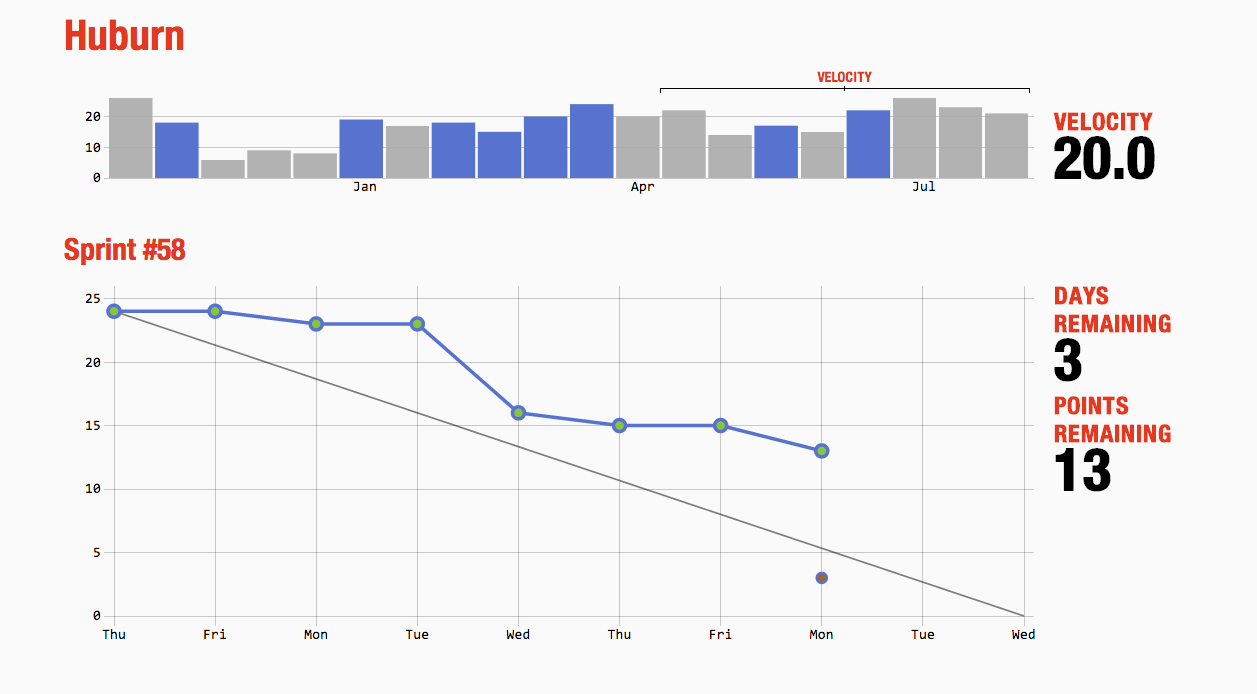
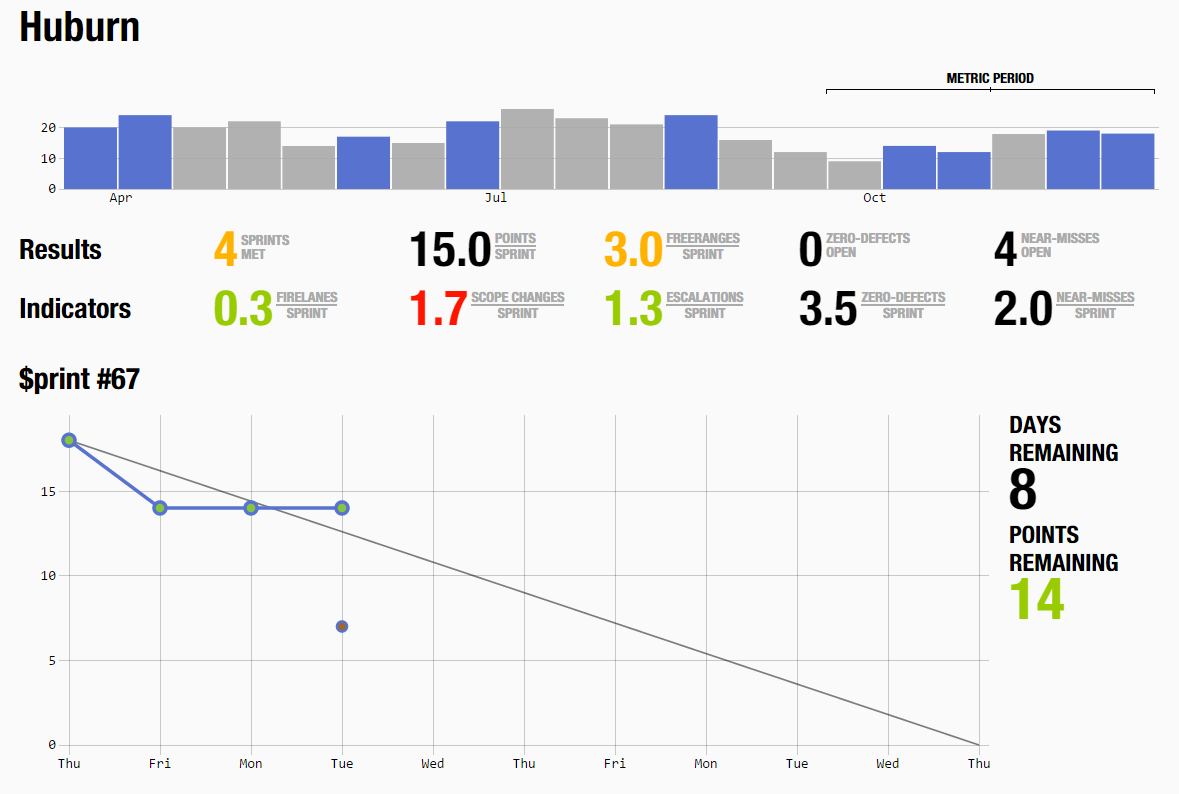
[GH32] Near-miss metrics * Add near-miss metrics that parallel the zero-defect metrics * Update the README to contain instructions for how to compile LESS * Update the screenshot for the README

diff --git a/lib/static/static/js/velocityMetrics.js b/lib/static/static/js/velocityMetrics.js
@@ -18,7 +18,7 @@
             firelanes: { value: 0, class: '' },
             escalations: { value: 0, class: '' },
             zeroDefects: { value: 0, class: '' },
-            zeroDefectBacklog: { value: 0, class: '' }
+            nearMisses: { value: 0, class: '' }
           };
 
           if (!milestones.length)
@@ -45,18 +45,23 @@
 
           metrics.zeroDefects.value = velocityMilestones.map(zeroDefects).reduce(sum) / milestonesInVelocity;
 
+          metrics.nearMisses.value = velocityMilestones.map(nearMisses).reduce(sum) / milestonesInVelocity;
+
           return metrics;
         }
 
         function getCurrentSprintMetrics(currentMilestone) {
           var currentMetrics = {
-            zeroDefectBacklog: { value: 0, class: '' }
+            zeroDefectBacklog: { value: 0, class: '' },
+            nearMissBacklog: { value: 0, class: '' }
           };
 
           if (!currentMilestone)
             return currentMetrics;
 
           currentMetrics.zeroDefectBacklog.value = currentMilestone.metadata.zeroDefectBacklog;
+
+          currentMetrics.nearMissBacklog.value = currentMilestone.metadata.nearMissBacklog;
 
           return currentMetrics;
         }
@@ -71,6 +76,8 @@
         function scopeChanges(m) { return m.metadata.scopeChanges; };
         function zeroDefects(m) { return m.metadata.zeroDefects; };
         function zeroDefectBacklog(m) { return m.metadata.zeroDefectBacklog; };
+        function nearMisses(m) { return m.metadata.nearMisses; };
+        function nearMissBacklog(m) { return m.metadata.nearMissBacklog; };
 
         function metClass(value) {
           if (value == 6) return 'super-green';

diff --git a/lib/static/static/partials/velocityMetrics.html b/lib/static/static/partials/velocityMetrics.html
@@ -22,7 +22,11 @@
   </div>
   <div class="col-sm-2 zeroDefectBacklog">
     <p class="value">{{ openIterationData.zeroDefectBacklog.value | number:0 }}</p>
-    <p class="units">ZERO DEFECTS<br />OPEN</p>
+    <p class="units">ZERO-DEFECTS<br />OPEN</p>
+  </div>
+  <div class="col-sm-2 nearMissBacklog">
+    <p class="value">{{ openIterationData.nearMissBacklog.value | number:0 }}</p>
+    <p class="units">NEAR-MISSES<br />OPEN</p>
   </div>
 </div>
 <div class="row velocity-metrics">
@@ -53,7 +57,14 @@
   <div class="col-sm-2 zeroDefects">
     <p class="value">{{ closedIterationData.zeroDefects.value | number:1 }}</p>
     <div class="units">
-      <div class="quotient">ZERO DEFECTS</div>
+      <div class="quotient">ZERO-DEFECTS</div>
+      <div class="divisor">SPRINT</div>
+    </div>
+  </div>
+  <div class="col-sm-2 nearMisses">
+    <p class="value">{{ closedIterationData.nearMisses.value | number:1 }}</p>
+    <div class="units">
+      <div class="quotient">NEAR-MISSES</div>
       <div class="divisor">SPRINT</div>
     </div>
   </div>

diff --git a/lib/static/static/js/burndownCtrl.js b/lib/static/static/js/burndownCtrl.js
@@ -31,6 +31,7 @@
               milestone.metadata.escalations = burndownCalculator.getNumberOfLabel(issues, /escalation/);
               milestone.metadata.scopeChanges = burndownCalculator.getNumberOfLabel(issues, /scope change/);
               milestone.metadata.zeroDefects = burndownCalculator.getNumberOfLabel(issues, /zero-defect/);
+              milestone.metadata.nearMisses = burndownCalculator.getNumberOfLabel(issues, /near-miss/);
 
               var milestones = $scope.milestones.slice(0);
               milestones.push(milestone);
@@ -51,6 +52,7 @@
 
             milestones[0].metadata = getMetadata(milestones[0]);  
             milestones[0].metadata.zeroDefectBacklog = burndownCalculator.getNumberOfLabelOpen(issues, /zero-defect/);
+            milestones[0].metadata.nearMissBacklog = burndownCalculator.getNumberOfLabelOpen(issues, /near-miss/);
 
             $scope.openIterationData = velocityMetrics.getCurrentSprintMetrics(milestones[0]);
           });

diff --git a/README.md b/README.md
@@ -16,3 +16,11 @@ module.exports = {
 }
 ```
 
+Less
+----
+
+To compile LESS, run the following command:
+
+```
+node node_modules/less/bin/lessc lib/static/less/main.less > lib/static/static/css/main.css
+```
